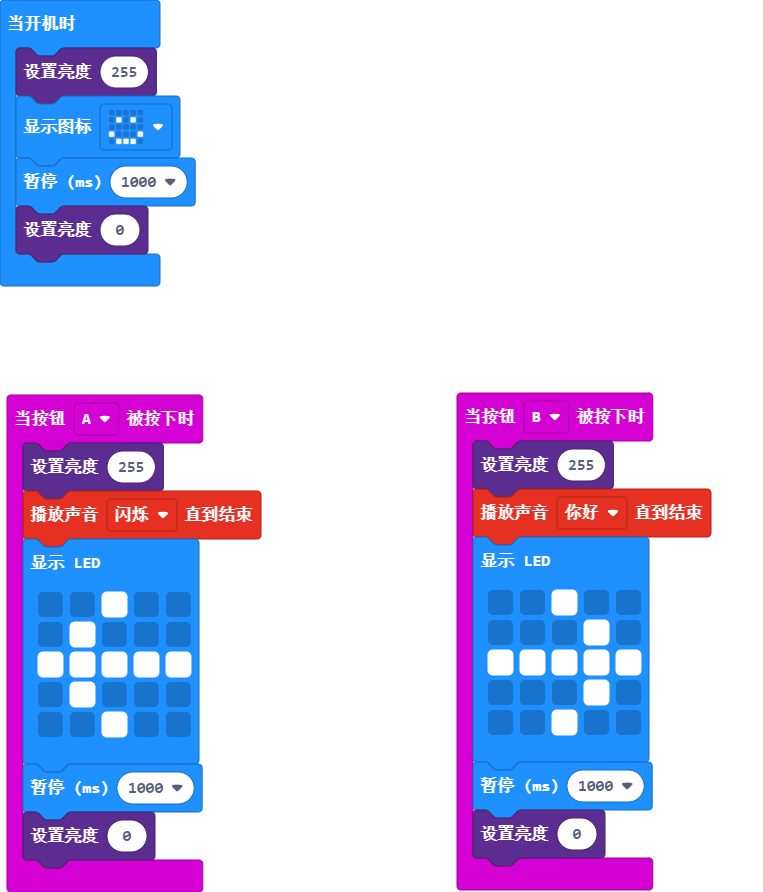
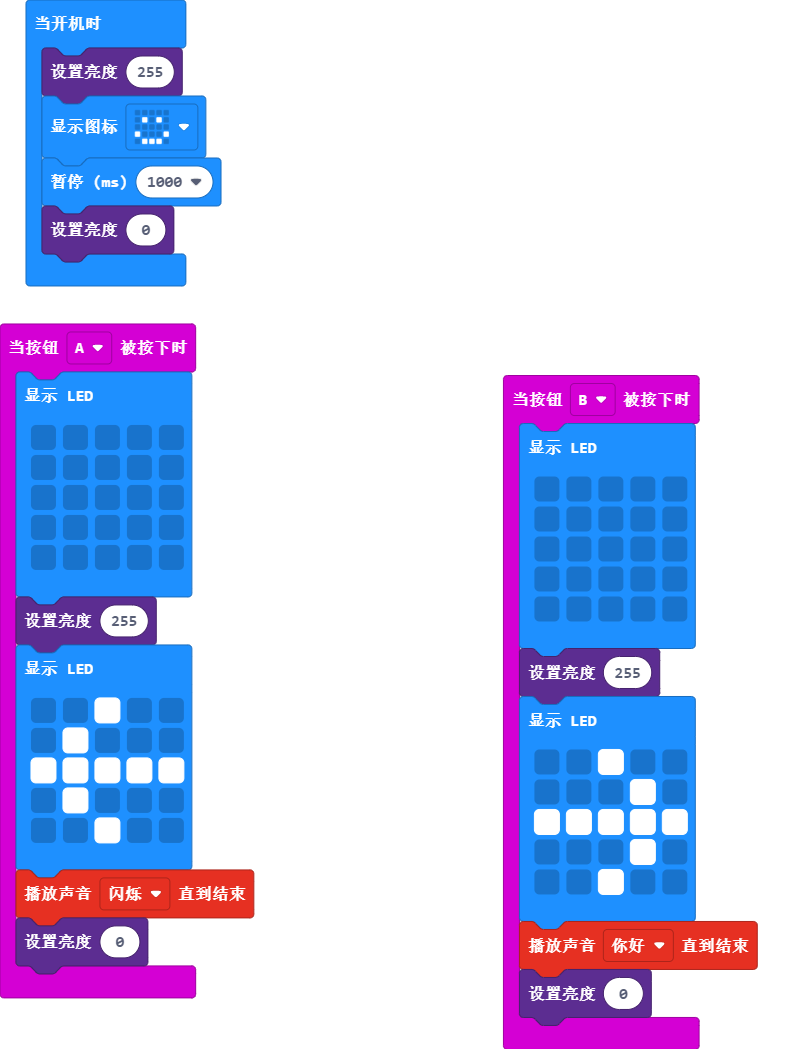
更新 main.blocks, main.ts

diff --git a/main.ts b/main.ts
@@ -1,6 +1,12 @@
 input.onButtonPressed(Button.A, function () {
+    basic.showLeds(`
+        . . . . .
+        . . . . .
+        . . . . .
+        . . . . .
+        . . . . .
+        `)
     led.setBrightness(255)
-    soundExpression.twinkle.playUntilDone()
     basic.showLeds(`
         . . # . .
         . # . . .
@@ -8,12 +14,18 @@ input.onButtonPressed(Button.A, function () {
         . # . . .
         . . # . .
         `)
-    basic.pause(1000)
+    soundExpression.twinkle.playUntilDone()
     led.setBrightness(0)
 })
 input.onButtonPressed(Button.B, function () {
+    basic.showLeds(`
+        . . . . .
+        . . . . .
+        . . . . .
+        . . . . .
+        . . . . .
+        `)
     led.setBrightness(255)
-    soundExpression.hello.playUntilDone()
     basic.showLeds(`
         . . # . .
         . . . # .
@@ -21,7 +33,7 @@ input.onButtonPressed(Button.B, function () {
         . . . # .
         . . # . .
         `)
-    basic.pause(1000)
+    soundExpression.hello.playUntilDone()
     led.setBrightness(0)
 })
 led.setBrightness(255)
